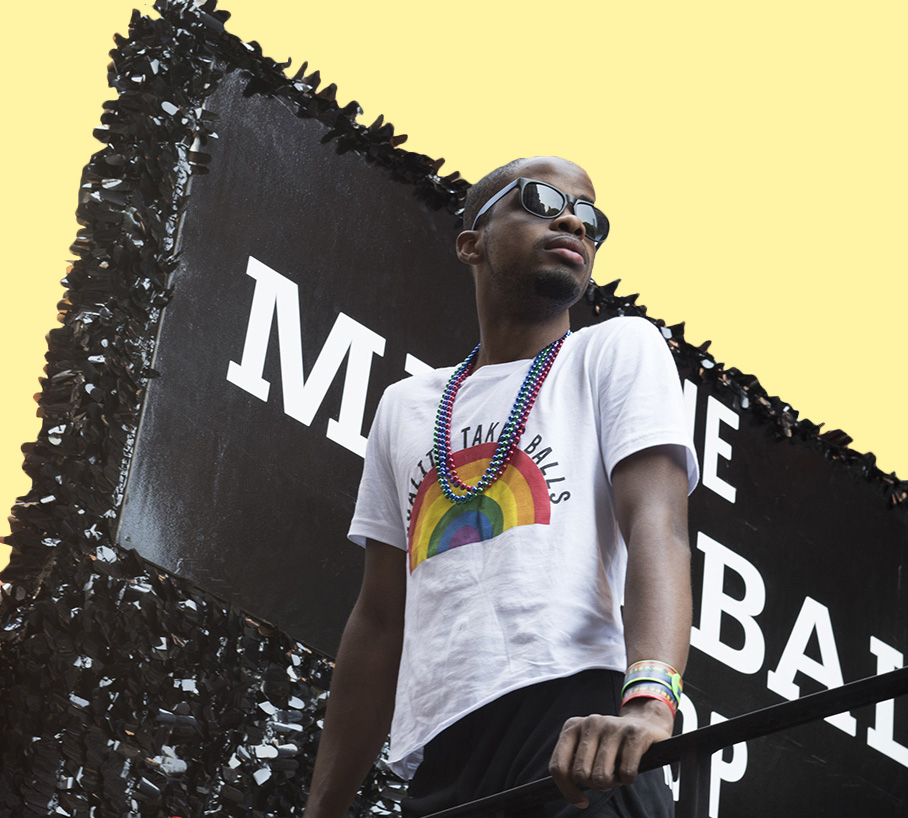
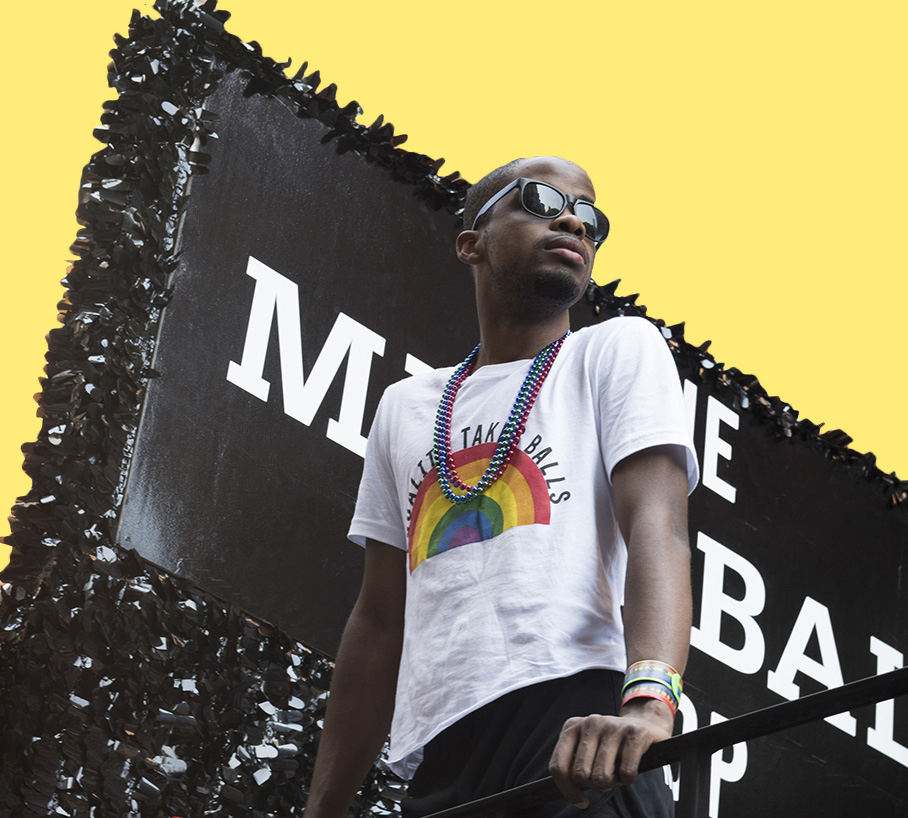
images

Changed region(s): [[0.2467, 0.0, 1.0, 0.6112], [0.0, 0.0, 0.185, 0.7029]]

diff --git a/index.html b/index.html
@@ -118,7 +118,7 @@ function closeNav() {
           <li>
               <a href="burgers.html">
                 <figure>
-                  <img src="img/burgers-908x818-thumbnail.gif" alt="Burgers and Hip Hop">
+                  <img src="img/burgers-908x818-thumbnail.jpg" alt="Burgers and Hip Hop">
                   <figcaption>
                     <h3>Burgers and Hip Hop</h3>
                   </figcaption>
